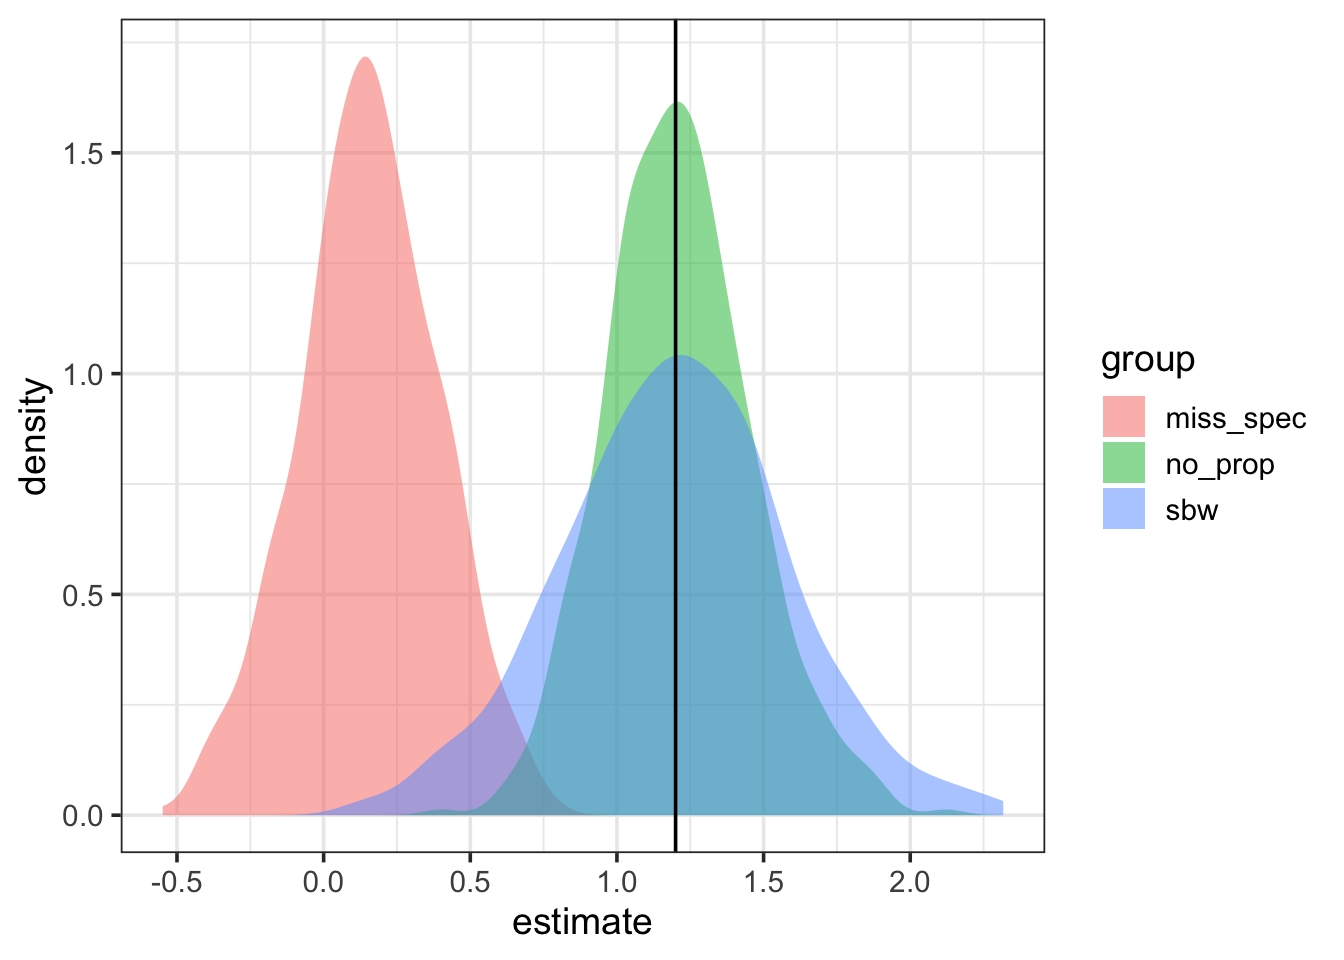
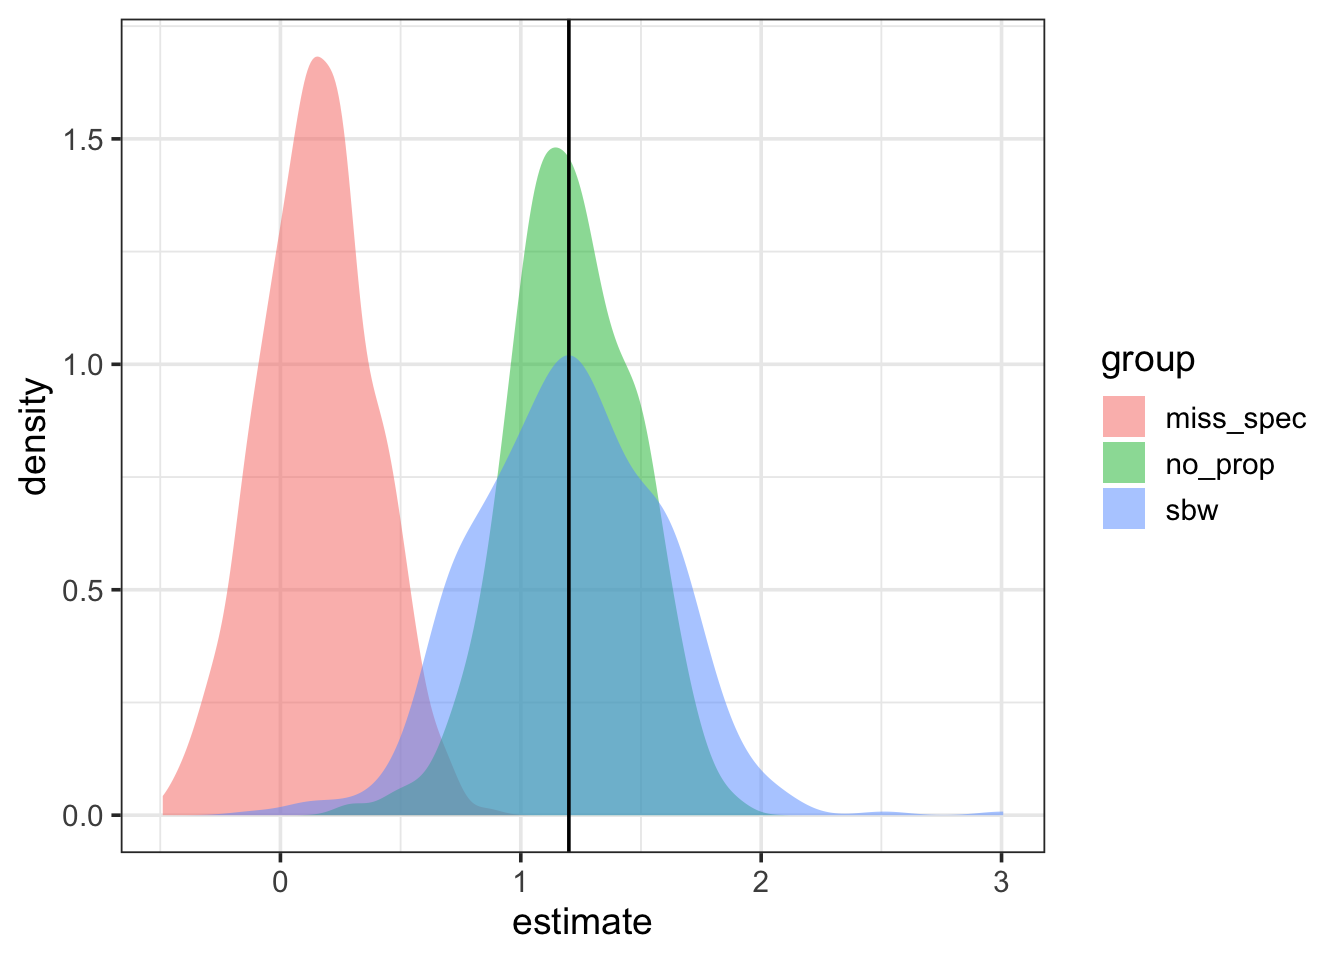
Built site for gh-pages

diff --git a/posts/2025-10-06-simglm-propensity-modeling.html b/posts/2025-10-06-simglm-propensity-modeling.html
@@ -236,7 +236,7 @@ gtag('config', 'G-14CK5K9RD6', { 'anonymize_ip': true});
 
 <section id="section" class="level1">
 <h1></h1>
-<p>Building on last week’s post about <a href="../posts/2015-09-24-simglm-propensity.html">propensity score simulation</a>, the <code>simglm</code> package has been extended to now allow for the estimation of power in addition to the propensity score simulations. Recall, propensity scores can be helpful for causal inference with intact groups, when random assignment was either not possible or not done. This allows for the estimation of power under all three supported propensity score methods:</p>
+<p>Building on last week’s post about <a href="../posts/2025-09-24-simglm-propensity.html">propensity score simulation</a>, the <code>simglm</code> package has been extended to now allow for the estimation of power in addition to the propensity score simulations. Recall, propensity scores can be helpful for causal inference with intact groups, when random assignment was either not possible or not done. This allows for the estimation of power under all three supported propensity score methods:</p>
 <ul>
 <li>Covariate adjustment</li>
 <li>Inverse propensity score weighting</li>
@@ -249,8 +249,18 @@ gtag('config', 'G-14CK5K9RD6', { 'anonymize_ip': true});
 </div>
 <section id="fitting-a-covariate-adjusted-model." class="level2">
 <h2 class="anchored" data-anchor-id="fitting-a-covariate-adjusted-model.">Fitting a covariate adjusted model.</h2>
-<p>The below code does the following steps:<br>
-1. Simulates the data with the propensity model. That is, the treatment attribute is simulated as a function of age and SES so that those that are older and higher SES are more likely to be in the treatment group. 2. Simulates the full model to generate scores for student achievement. 3. Fit propensity score model to the simulated data. 4. Fit the final model, with the estimated propensity scores included as a covariate, and store model estimates. 5. Repeat steps 1–4 for 500 replications (illustrative only; use more in practice).</p>
+<p>The below code does the following steps:</p>
+<ol type="1">
+<li>Simulates the data with the propensity model. That is, the treatment attribute is simulated as a function of age and SES so that those that are older and higher SES are more likely to be in the treatment group.<br>
+</li>
+<li>Simulates the full model to generate scores for student achievement.<br>
+</li>
+<li>Fit propensity score model to the simulated data.<br>
+</li>
+<li>Fit the final model, with the estimated propensity scores included as a covariate, and store model estimates.<br>
+</li>
+<li>Repeat steps 1–4 for 500 replications (illustrative only; use more in practice).</li>
+</ol>
 <p>To fit the propensity score adjusted covariate model, <code>propensity_type = 'covariate'</code> is added to the propensity model simulation arguments.</p>
 <div class="cell">
 <div class="code-copy-outer-scaffold"><div class="sourceCode cell-code" id="cb2"><pre class="sourceCode r code-with-copy"><code class="sourceCode r"><span id="cb2-1"><a href="#cb2-1" aria-hidden="true" tabindex="-1"></a><span class="fu">library</span>(simglm)</span>
@@ -289,22 +299,32 @@ gtag('config', 'G-14CK5K9RD6', { 'anonymize_ip': true});
 <span id="cb2-34"><a href="#cb2-34" aria-hidden="true" tabindex="-1"></a>                     <span class="at">type_1_error =</span> <span class="cn">FALSE</span>)</span></code></pre></div><button title="Copy to Clipboard" class="code-copy-button"><i class="bi"></i></button></div>
 <div class="cell-output cell-output-stdout">
 <pre><code># A tibble: 6 × 7
-  term   avg_estimate power param_estimate_sd avg_standard_error precision_ratio
-  &lt;chr&gt;         &lt;dbl&gt; &lt;dbl&gt;             &lt;dbl&gt;              &lt;dbl&gt;           &lt;dbl&gt;
-1 (Inte…      50.0    1               0.814              0.850             0.957
-2 age          0.101  0.6             0.0383             0.0401            0.954
-3 motiv…       0.400  1               0.00519            0.00500           1.04 
-4 prope…      -0.0192 0.028           1.19               1.25              0.955
-5 ses          0.249  0.984           0.0547             0.0572            0.956
-6 trt          1.18   0.986           0.264              0.262             1.01 
+  term  avg_estimate  power param_estimate_sd avg_standard_error precision_ratio
+  &lt;chr&gt;        &lt;dbl&gt;  &lt;dbl&gt;             &lt;dbl&gt;              &lt;dbl&gt;           &lt;dbl&gt;
+1 (Int…      49.9    1                0.856              0.854             1.00 
+2 age         0.0964 0.574            0.0406             0.0401            1.01 
+3 moti…       0.400  1                0.00494            0.00502           0.985
+4 prop…       0.124  0.0320           1.28               1.25              1.02 
+5 ses         0.254  0.98             0.0595             0.0575            1.03 
+6 trt         1.18   0.998            0.256              0.262             0.975
 # ℹ 1 more variable: replications &lt;dbl&gt;</code></pre>
 </div>
 </div>
 </section>
 <section id="fitting-a-ipw-adjusted-model." class="level2">
 <h2 class="anchored" data-anchor-id="fitting-a-ipw-adjusted-model.">Fitting a IPW adjusted model.</h2>
-<p>The below code does the following steps:<br>
-1. Simulates the data with the propensity model. That is, the treatment attribute is simulated as a function of age and SES so that those that are older and higher SES are more likely to be in the treatment group. 2. Simulates the full model to generate scores for student achievement. 3. Fit the propensity score model to the simulated data 4. Fit the final model, using inverse propensity score weighting, and store model estimates. 5. Repeat steps 1–4 for 500 replications (illustrative only; use more in practice).</p>
+<p>The below code does the following steps:</p>
+<ol type="1">
+<li>Simulates the data with the propensity model. That is, the treatment attribute is simulated as a function of age and SES so that those that are older and higher SES are more likely to be in the treatment group.<br>
+</li>
+<li>Simulates the full model to generate scores for student achievement.<br>
+</li>
+<li>Fit the propensity score model to the simulated data.<br>
+</li>
+<li>Fit the final model, using inverse propensity score weighting, and store model estimates.<br>
+</li>
+<li>Repeat steps 1–4 for 500 replications (illustrative only; use more in practice).</li>
+</ol>
 <p>The only addition needed is to add, <code>propensity_type = 'ipw'</code> to the propensity model simulation arguments.</p>
 <div class="cell">
 <div class="code-copy-outer-scaffold"><div class="sourceCode cell-code" id="cb4"><pre class="sourceCode r code-with-copy"><code class="sourceCode r"><span id="cb4-1"><a href="#cb4-1" aria-hidden="true" tabindex="-1"></a>sim_arguments <span class="ot">&lt;-</span> <span class="fu">list</span>(</span>
@@ -343,11 +363,11 @@ gtag('config', 'G-14CK5K9RD6', { 'anonymize_ip': true});
 <pre><code># A tibble: 5 × 7
   term   avg_estimate power param_estimate_sd avg_standard_error precision_ratio
   &lt;chr&gt;         &lt;dbl&gt; &lt;dbl&gt;             &lt;dbl&gt;              &lt;dbl&gt;           &lt;dbl&gt;
-1 (Inte…      50.0    1               0.312              0.216              1.44
-2 age          0.0978 0.856           0.0434             0.0252             1.72
-3 motiv…       0.400  1               0.00978            0.00501            1.95
-4 ses          0.254  1               0.0550             0.0204             2.70
-5 trt          1.23   0.958           0.377              0.263              1.43
+1 (Inte…      50.0    1                0.306             0.216              1.42
+2 age          0.0983 0.846            0.0432            0.0252             1.72
+3 motiv…       0.400  1                0.0103            0.00501            2.05
+4 ses          0.256  1                0.0534            0.0204             2.62
+5 trt          1.23   0.962            0.371             0.263              1.41
 # ℹ 1 more variable: replications &lt;dbl&gt;</code></pre>
 </div>
 </div>
@@ -400,11 +420,11 @@ gtag('config', 'G-14CK5K9RD6', { 'anonymize_ip': true});
 <pre><code># A tibble: 5 × 7
   term   avg_estimate power param_estimate_sd avg_standard_error precision_ratio
   &lt;chr&gt;         &lt;dbl&gt; &lt;dbl&gt;             &lt;dbl&gt;              &lt;dbl&gt;           &lt;dbl&gt;
-1 (Inte…       50.0   1                0.337             0.217              1.55
-2 age           0.101 0.858            0.0433            0.0253             1.71
-3 motiv…        0.401 1                0.0103            0.00504            2.04
-4 ses           0.254 0.998            0.0579            0.0205             2.83
-5 trt           1.19  0.928            0.402             0.264              1.52
+1 (Inte…       50.0   1               0.309              0.216              1.43
+2 age           0.102 0.838           0.0443             0.0252             1.76
+3 motiv…        0.400 1               0.00905            0.00502            1.80
+4 ses           0.248 0.998           0.0540             0.0205             2.64
+5 trt           1.18  0.934           0.384              0.263              1.46
 # ℹ 1 more variable: replications &lt;dbl&gt;</code></pre>
 </div>
 </div>
